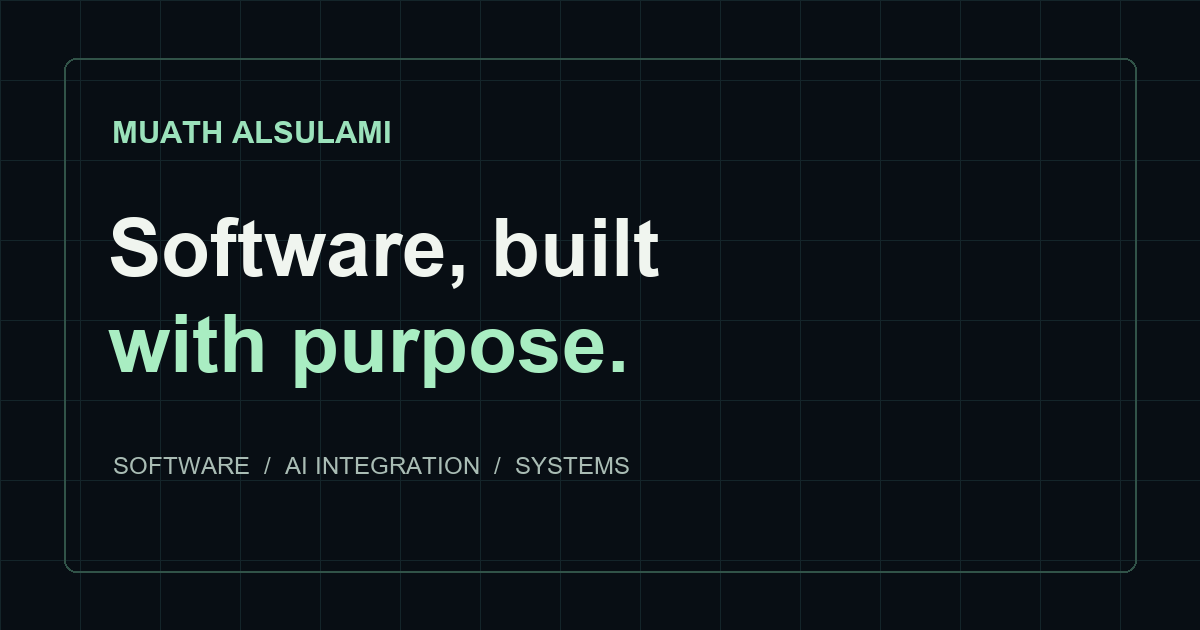
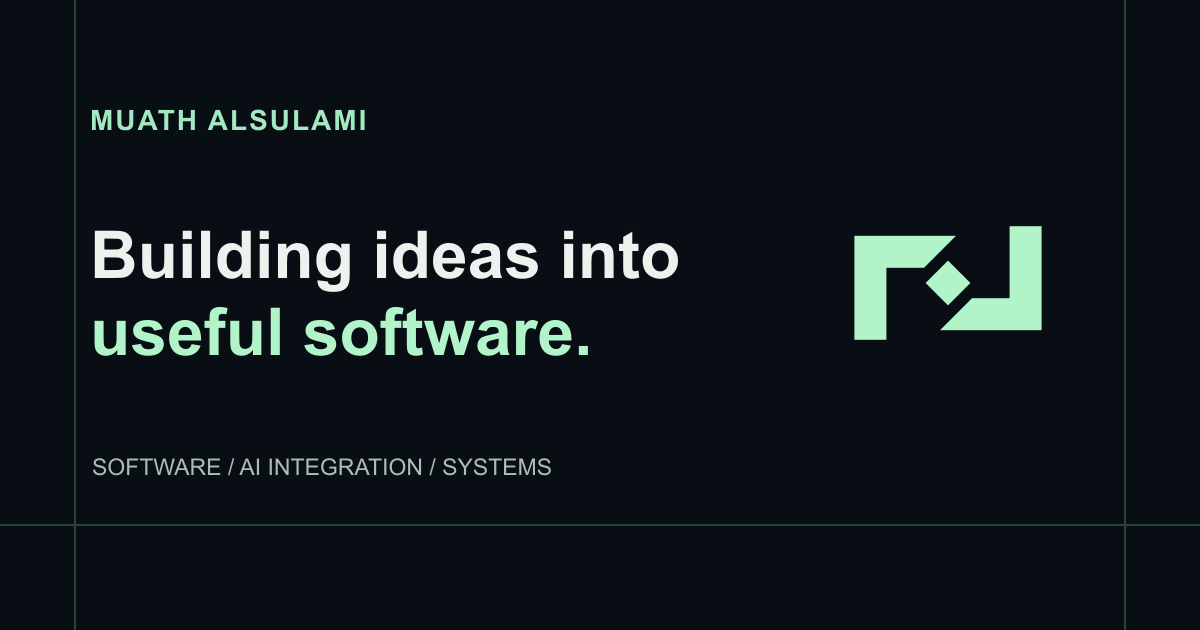
Propose interactive join identity

diff --git a/style.css b/style.css
@@ -82,26 +82,6 @@ button:focus-visible, a:focus-visible { outline: 2px solid var(--green); outline
 .hero-meta strong { font-size: 13px; letter-spacing: .01em; font-weight: 600; }
 .meta-divider { width: 1px; height: 31px; background: var(--line-strong); }
 .hero-art { width: 100%; aspect-ratio: 1; max-width: 620px; margin-inline: auto; position: relative; transform-style: preserve-3d; }
-.art-glow { position: absolute; inset: 14%; border-radius: 50%; background: radial-gradient(circle, rgba(118,227,180,.09),transparent 67%); }
-.orbit { position: absolute; border: 1px solid rgba(140,207,177,.15); border-radius: 50%; inset: 5%; }
-.orbit-middle { inset: 18%; border-style: dashed; border-color: rgba(140,207,177,.24); animation: orbit-spin 80s linear infinite; }
-.orbit-inner { inset: 30%; border-color: rgba(160,237,188,.28); box-shadow: inset 0 0 45px rgba(140,207,177,.04); }
-.orbit-outer::before, .orbit-outer::after { content: ''; position: absolute; background: var(--green); border-radius: 50%; width: 5px; height: 5px; box-shadow: 0 0 15px var(--green); }
-.orbit-outer::before { top: 13%; left: 16%; } .orbit-outer::after { bottom: 19%; right: 13%; }
-.orbit-dashes { position: absolute; inset: -3%; border-radius: 50%; background: repeating-conic-gradient(from -15deg,rgba(153,226,186,.34) 0deg 1deg,transparent 1deg 20deg); mask-image: radial-gradient(transparent 69%,#000 69.1%,#000 69.5%,transparent 69.6%); opacity: .5; }
-.orbital-track { position: absolute; inset: 18%; border-radius: 50%; animation: orbit-spin 14s linear infinite; }
-.orbit-particle { position: absolute; width: 10px; height: 10px; border-radius: 50%; left: calc(50% - 5px); top: -5px; background: var(--green); box-shadow: 0 0 26px var(--green),0 0 55px rgba(135,225,176,.5); }
-.art-center { display: grid; place-items: center; position: absolute; inset: 32%; background: radial-gradient(circle at 40% 30%,#17382f,#0d1c1c 80%); border: 1px solid rgba(132,220,179,.37); border-radius: 50%; box-shadow: 0 20px 130px rgba(60,215,157,.11),inset 0 0 50px rgba(80,201,151,.07); }
-.art-center-ring { width: 87%; height: 87%; border: 1px solid rgba(135,225,176,.13); border-radius: 50%; display: flex; flex-direction: column; align-items: center; justify-content: center; gap: 7px; }
-.art-monogram { font: 800 clamp(72px,8vw,117px)/1 var(--font-display); letter-spacing: -.12em; margin-inline-start: -.1em; text-shadow: 0 0 55px rgba(146,231,184,.28); }
-.art-monogram span { color: var(--green); }
-.art-center small { font: 500 8px/1.3 var(--font-mono); color: #8db3a4; letter-spacing: .13em; }
-.signal { position: absolute; z-index: 3; display: flex; align-items: center; gap: 12px; padding: 12px 14px; font: 600 9px/1 var(--font-mono); letter-spacing: .1em; background: rgba(15,30,35,.92); border: 1px solid rgba(135,225,176,.26); box-shadow: 0 20px 60px rgba(0,0,0,.24); white-space: nowrap; animation: hover-float 7s ease-in-out infinite; }
-.signal-icon { width: 28px; height: 28px; display: grid; place-items: center; background: rgba(135,225,176,.1); font: 600 13px var(--font-mono); color: var(--green); }
-.signal-one { top: 16%; left: -1%; }.signal-two { top: 36%; right: -3%; animation-delay: -2s; }.signal-three { bottom: 13%; left: 8%; animation-delay: -4s; }
-.coordinates { position: absolute; font: 500 9px/1.9 var(--font-mono); color: #718d86; letter-spacing: .12em; }
-.coordinates-one { right: 13%; top: 8%; }.coordinates-two { right: 7%; bottom: 10%; text-align: end; }
-.art-cross { position: absolute; color: var(--green); font: 20px var(--font-mono); opacity: .4; }.art-cross-one { left: 12%; top: 55%; }.art-cross-two { right: 21%; bottom: 28%; }
 .hero-bottom { display: flex; justify-content: space-between; color: #7f958f; font: 500 10px var(--font-mono); letter-spacing: .14em; }
 .hero-bottom > span:first-child { display: flex; align-items: center; gap: 12px; }.small-line { display: inline-block; width: 35px; height: 1px; background: var(--green); }
 .section { padding-block: 125px; }
@@ -192,10 +172,7 @@ button:focus-visible, a:focus-visible { outline: 2px solid var(--green); outline
 .site-footer { background: var(--bg); }.footer-inner { min-height: 91px; display: flex; align-items: center; justify-content: space-between; gap: 20px; font: 500 10px var(--font-mono); color: #7c958b; letter-spacing: .05em; }.footer-inner a { color: #a9d8bd; transition: .2s; }.footer-inner a:hover { color: var(--green); }
 .project-dialog { width: min(660px,calc(100% - 30px)); max-height: calc(100dvh - 50px); overflow: auto; padding: 0; border: 1px solid rgba(135,225,176,.37); background: #121f25; color: var(--text); box-shadow: 0 35px 100px rgba(0,0,0,.55); }.project-dialog::backdrop { background: rgba(0,6,9,.83); -webkit-backdrop-filter: blur(9px); backdrop-filter: blur(9px); }.dialog-inner { padding: clamp(26px,5vw,50px); }.dialog-top { display: flex; align-items: center; justify-content: space-between; }.dialog-kicker { color: var(--green); font: 500 11px var(--font-mono); letter-spacing: .1em; }.dialog-close { border: 1px solid var(--line-strong); width: 40px; height: 40px; font-size: 28px; color: var(--text); background: transparent; }.dialog-inner h2 { font: 800 clamp(29px,4vw,41px)/1.2 var(--font-display); letter-spacing: -.05em; margin: 25px 0 18px; }.dialog-inner h3 { color: var(--green); font-size: 14px; margin: 27px 0 8px; }.dialog-inner p { color: #b5c8bc; line-height: 1.9; font-size: 14px; }.dialog-done { margin-top: 23px; border: 0; background: var(--green); color: #0d2016; padding: 12px 24px; font-weight: 700; }
 .reveal { opacity: 1; transform: none; }[data-reveal-delay="1"] { transition-delay: .09s; }[data-reveal-delay="2"] { transition-delay: .18s; }[data-reveal-delay="3"] { transition-delay: .27s; }[data-reveal-delay="4"] { transition-delay: .36s; }
-@keyframes orbit-spin { to { transform: rotate(360deg); } }
 @keyframes breathe { 50% { box-shadow: 0 0 0 8px rgba(135,225,176,.05),0 0 26px var(--green); } }
-@keyframes hover-float { 50% { transform: translateY(-10px); } }
-
 html[dir="rtl"] body { font-family: 'Tajawal', var(--font-body); }
 html[dir="rtl"] .hero-title,html[dir="rtl"] .big-statement,html[dir="rtl"] .section-display,html[dir="rtl"] .contact h2 { font-family: 'Tajawal', var(--font-display); letter-spacing: -.045em; }
 html[dir="rtl"] .hero-title { line-height: 1.22; }
@@ -210,7 +187,7 @@ html[dir="rtl"] .outline-word { -webkit-text-stroke: 1px rgba(237,242,238,.8); }
 @media (min-width: 1700px) { .hero { min-height: 850px; } }
 @media (max-width: 1120px) {
   .container { width: calc(100% - 70px); }
-  .hero-content { grid-template-columns: 1.13fr .87fr; }.hero-title { font-size: clamp(48px,5.7vw,75px); }.signal { font-size: 7px; padding: 9px; }.signal-icon { width: 20px; height: 20px; font-size: 10px; }
+  .hero-content { grid-template-columns: 1.13fr .87fr; }.hero-title { font-size: clamp(48px,5.7vw,75px); }
   .brand-caption { display: none; }.site-nav { gap: 21px; }.nav-shell { min-height: 82px; }
   .facts-grid { grid-template-columns: repeat(2,1fr); }.fact:nth-child(2) { border-inline-end: 0; }.fact:nth-child(-n+2) { border-bottom: 1px solid var(--line); }.fact:nth-child(3) { padding-inline-start: 0; }
   .project-info { padding: 29px 26px; }.project-card--numoo .project-info { padding: 30px; }
@@ -227,7 +204,7 @@ html[dir="rtl"] .outline-word { -webkit-text-stroke: 1px rgba(237,242,238,.8); }
 }
 @media (max-width: 530px) {
   .container { width: calc(100% - 34px); }.brand-symbol { font-size: 28px; }.lang-switch { font-size: 12px; }
-  .hero { padding-top: 113px; }.hero-eyebrow { padding: 8px 10px; font-size: 9px; margin-bottom: 26px; }.hero-title { font-size: clamp(36px,9.3vw,53px); letter-spacing: -.02em; }.hero-lead { font-size: 14px; line-height: 1.75; }.hero-buttons { gap: 9px; }.button { min-height: 49px; }.button-primary { padding: 0 11px 0 15px; gap: 15px; }.button-quiet { padding: 0 8px; gap: 8px; }.hero-meta { gap: 17px; }.hero-meta strong { font-size: 11px; }.meta-label { font-size: 9px; }.hero-art { width: 100%; margin-inline: auto; }.signal-one { left: 1%; }.signal-two { right: 2%; }.signal-three { left: 10%; }.signal { font-size: 7px; gap: 5px; }.coordinates { font-size: 7px; }.art-center small { font-size: 6px; }.hero-bottom { font-size: 8px; }.hero-scroll-num { display: none; }
+  .hero { padding-top: 113px; }.hero-eyebrow { padding: 8px 10px; font-size: 9px; margin-bottom: 26px; }.hero-title { font-size: clamp(36px,9.3vw,53px); letter-spacing: -.02em; }.hero-lead { font-size: 14px; line-height: 1.75; }.hero-buttons { gap: 9px; }.button { min-height: 49px; }.button-primary { padding: 0 11px 0 15px; gap: 15px; }.button-quiet { padding: 0 8px; gap: 8px; }.hero-meta { gap: 17px; }.hero-meta strong { font-size: 11px; }.meta-label { font-size: 9px; }.hero-art { width: 100%; margin-inline: auto; }.hero-bottom { font-size: 8px; }.hero-scroll-num { display: none; }
   .section-top { margin-bottom: 43px; }.section-index { font-size: 9px; }.section { padding-block: 74px; }.big-statement,.section-display { font-size: clamp(34px,9vw,48px); }.about-details p,.about-details .intro-paragraph { font-size: 14px; }.facts-grid { grid-template-columns: repeat(2,minmax(0,1fr)); }.fact { padding: 21px 14px; min-height: 132px; }.fact-value { font-size: 36px; }.fact-label { font-size: 8px; }.fact-quote { font-size: 12px; }.quote-mark { font-size: 36px; }
   .project-card--numoo .project-visual { min-height: 275px; }.numoo-compose { scale: .78; }.project-visual { min-height: 290px; }.visual-monitoring { padding: 40px 20px; }.dashboard-art { height: 190px; }.linegraph { height: 107px; }.visual-topline { left: 20px; right: 20px; font-size: 8px; }.project-info,.project-card--numoo .project-info { padding: 26px 21px; }.project-info h3 { font-size: 27px; }.project-info > p { font-size: 13px; }.tags span { font-size: 9px; }.filters .filter { padding: 10px 11px; font-size: 10px; }
   .timeline-item h3 { font-size: 20px; }.skill-group-title h3 { font-size: 16px; }.contact-wrap { padding-block: 55px 29px; }.contact-top { margin-bottom: 75px; }.contact h2 { font-size: clamp(45px,11vw,63px); }.contact-content > p:not(.section-kicker) { font-size: 15px; }.contact-footer { align-items: flex-start; flex-direction: column; gap: 18px; }.footer-inner { padding-block: 25px; display: flex; align-items: flex-start; flex-wrap: wrap; font-size: 9px; }.footer-inner > span:nth-child(2) { display: none; }
@@ -236,8 +213,7 @@ html[dir="rtl"] .outline-word { -webkit-text-stroke: 1px rgba(237,242,238,.8); }
   *, *::before, *::after { animation-duration: .01ms !important; animation-iteration-count: 1 !important; transition-duration: .01ms !important; scroll-behavior: auto !important; }
   .reveal { opacity: 1; transform: none; }
 }
-/* Tiny depth response on desktop pointer movement */
-.art-center { transform: translate(var(--parallax-x, 0px), var(--parallax-y, 0px)); transition: transform .3s ease-out; }
+
 .contact-empty[hidden] { display: none !important; }
 
 /* Progressive enhancement: content remains visible if JavaScript is unavailable. */
@@ -277,3 +253,40 @@ html[dir="rtl"] .contact h2 em { color: #174333; -webkit-text-stroke: 0; }
 .dialog-actions { display: flex; align-items: center; gap: 16px; }
 .dialog-language { min-width: 44px; min-height: 44px; }
 .dialog-close { min-width: 44px; min-height: 44px; }
+
+/* Identity: the join mark. */
+.signature-art { display:grid; place-items:center; isolation:isolate; }
+.signature-art::before { content:''; position:absolute; inset:12%; border:1px solid rgba(177,244,201,.16); transform:rotate(45deg) scale(.7); pointer-events:none; }
+.signature-button { position:relative; display:grid; place-items:center; width:min(83%,460px); aspect-ratio:1; border:0; padding:0; background:transparent; color:#b1f4c9; cursor:pointer; }
+.signature-button:disabled { cursor:default; }
+.signature-button svg { width:100%; overflow:visible; }
+.mark-part { fill:currentColor; transform-box:fill-box; transform-origin:center; transition:transform .5s cubic-bezier(.2,.7,.2,1); }
+.part-a { transform:translate(calc(var(--mx,0px) * -.7),calc(var(--my,0px) * -.7)); }
+.part-b { transform:translate(calc(var(--mx,0px) * .7),calc(var(--my,0px) * .7)); }
+.part-c { transform:translate(calc(var(--mx,0px) * .18),calc(var(--my,0px) * .18)); }
+.mark-lines { stroke:#87e1b0; stroke-width:1; opacity:.26; transition:opacity .4s; }
+.signature-button:hover .mark-lines,.signature-button:focus-visible .mark-lines { opacity:.75; }
+.signature-button.is-revealed .part-a { transform:translate(-20px,-20px); }
+.signature-button.is-revealed .part-b { transform:translate(20px,20px); }
+.signature-button.is-revealed .part-c { transform:rotate(45deg) scale(.72); }
+@media(prefers-reduced-motion:no-preference){@keyframes identity-a {from{translate:-48px -48px;opacity:.05}to{translate:0 0;opacity:1}} @keyframes identity-b {from{translate:48px 48px;opacity:.05}to{translate:0 0;opacity:1}} @keyframes identity-c {from{scale:.35;opacity:0}to{scale:1;opacity:1}} .part-a{animation:identity-a 1.3s .12s both cubic-bezier(.2,.65,.2,1)} .part-b{animation:identity-b 1.3s .12s both cubic-bezier(.2,.65,.2,1)} .part-c{animation:identity-c .8s .7s both cubic-bezier(.2,.65,.2,1)} }
+@media(prefers-reduced-motion:reduce){.mark-part{transform:none!important;transition:none}.mark-lines{transition:none}}
+
+.brand-mark { width: 34px; height: 34px; flex: none; fill: var(--green-strong); }
+@media (max-width:530px) { .brand-mark { width:30px; height:30px; } }
+/* On phones, bring the mark into the first screen without hiding the profile details. */
+@media (max-width: 530px) {
+  .hero-copy { display: contents; }
+  .hero-content { gap: 0; }
+  .hero-art.signature-art { order: 1; width: min(63%, 240px); margin: 24px auto 10px; }
+  .hero-meta { order: 2; margin-top: 16px; }
+  .hero-bottom { margin-top: 28px; }
+}
+/* Stable system typography keeps the first screen still while optional web fonts load. */
+html[dir] .hero .hero-title,
+html[dir] .hero .hero-name,
+html[dir] .hero .hero-lead,
+html[dir] .hero .hero-eyebrow,
+html[dir] .hero .hero-meta,
+html[dir] .hero .meta-label,
+html[dir] .hero .button { font-family: Arial, sans-serif; }

diff --git a/script.js b/script.js
@@ -168,6 +168,7 @@ function setLanguage(lang) {
     button.setAttribute('aria-label', lang === 'en' ? 'عربي — switch language to Arabic' : 'EN — switch language to English');
   });
   renderContact();
+  document.querySelector('.signature-button').setAttribute('aria-label', lang === 'ar' ? 'استكشف حركة الهوية' : 'Explore the animated identity');
   updateLabels();
   if (dialog.open && activeProject) populateProject(activeProject);
   try { localStorage.setItem('muath-language', lang); } catch (_) {}
@@ -205,7 +206,7 @@ const siteNav = document.getElementById('site-nav');
 function updateLabels() {
   const ar = currentLang === 'ar';
   document.querySelector('.skip-link').textContent = ar ? 'انتقل إلى المحتوى' : 'Skip to content';
-  document.querySelector('.brand').setAttribute('aria-label', ar ? 'M. MUATH / ALSULAMI — العودة للرئيسية' : 'M. MUATH / ALSULAMI — back to home');
+  document.querySelector('.brand').setAttribute('aria-label', ar ? 'MUATH / ALSULAMI — العودة للرئيسية' : 'MUATH / ALSULAMI — back to home');
   document.querySelector('.footer-inner a').setAttribute('aria-label', ar ? 'العودة للأعلى' : 'Back to top');
   document.getElementById('contact-actions').setAttribute('aria-label', ar ? 'وسائل التواصل' : 'Contact methods');
   document.querySelector('.site-nav').setAttribute('aria-label', ar ? 'التنقل الرئيسي' : 'Main navigation');
@@ -290,24 +291,39 @@ dialog.addEventListener('click', event => { if (event.target === dialog) closeDi
 
 setLanguage(currentLang);
 
-// A small, optional parallax detail. Disabled on touch screens and for reduced motion.
-const motionQuery = window.matchMedia('(prefers-reduced-motion: reduce)');
-const finePointer = window.matchMedia('(pointer: fine)').matches;
-if (finePointer) {
-  const heroArt = document.querySelector('.hero-art');
-  heroArt.addEventListener('pointermove', event => {
-    const bounds = heroArt.getBoundingClientRect();
-    const x = (event.clientX - bounds.left) / bounds.width - .5;
-    const y = (event.clientY - bounds.top) / bounds.height - .5;
-    heroArt.style.setProperty('--parallax-x', `${(x * 12).toFixed(1)}px`);
-    heroArt.style.setProperty('--parallax-y', `${(y * 12).toFixed(1)}px`);
-  });
-  motionQuery.addEventListener('change', () => {
-    heroArt.style.setProperty('--parallax-x', '0px');
-    heroArt.style.setProperty('--parallax-y', '0px');
-  });
-  heroArt.addEventListener('pointerleave', () => {
-    heroArt.style.setProperty('--parallax-x', '0px');
-    heroArt.style.setProperty('--parallax-y', '0px');
-  });
+// The mark settles at rest; pointer work is requested only on interaction.
+const identity = document.querySelector('.signature-button');
+const identityArea = document.querySelector('.signature-art');
+const identityMotion = window.matchMedia('(prefers-reduced-motion: reduce)');
+let identityFrame = 0, identityTimer = 0, bounds = null, pointerX = 0, pointerY = 0;
+identity.disabled = identityMotion.matches;
+function resetIdentity() {
+  cancelAnimationFrame(identityFrame); identityFrame = 0; bounds = null;
+  identity.style.removeProperty('--mx'); identity.style.removeProperty('--my');
 }
+identityArea.addEventListener('pointerenter', event => {
+  if (!identityMotion.matches && event.pointerType === 'mouse') bounds = identityArea.getBoundingClientRect();
+});
+identityArea.addEventListener('pointermove', event => {
+  if (!bounds || identityMotion.matches || event.pointerType !== 'mouse') return;
+  pointerX = Math.max(-14, Math.min(14, ((event.clientX - bounds.left) / bounds.width - .5) * 28));
+  pointerY = Math.max(-14, Math.min(14, ((event.clientY - bounds.top) / bounds.height - .5) * 28));
+  if (!identityFrame) identityFrame = requestAnimationFrame(() => {
+    identity.style.setProperty('--mx', pointerX.toFixed(1) + 'px');
+    identity.style.setProperty('--my', pointerY.toFixed(1) + 'px'); identityFrame = 0;
+  });
+});
+identityArea.addEventListener('pointerleave', resetIdentity);
+identity.addEventListener('click', () => {
+  if (identityMotion.matches) return;
+  clearTimeout(identityTimer); identity.classList.add('is-revealed');
+  identityTimer = setTimeout(() => identity.classList.remove('is-revealed'), 1250);
+});
+identityMotion.addEventListener('change', () => {
+  resetIdentity(); clearTimeout(identityTimer); identity.classList.remove('is-revealed');
+  identity.disabled = identityMotion.matches;
+});
+window.addEventListener('resize', resetIdentity);
+document.addEventListener('visibilitychange', () => {
+  if (document.hidden) { resetIdentity(); clearTimeout(identityTimer); identity.classList.remove('is-revealed'); }
+});

diff --git a/index.html b/index.html
@@ -29,8 +29,8 @@
 
   <header class="site-header" id="top">
     <div class="container nav-shell">
-      <a href="#home" class="brand" aria-label="M. MUATH / ALSULAMI — back to home">
-        <span class="brand-symbol">M<span class="brand-spark">.</span></span>
+      <a href="#home" class="brand" aria-label="MUATH / ALSULAMI — back to home">
+        <svg class="brand-mark" viewBox="0 0 320 320" aria-hidden="true" focusable="false"><path d="M43 101h127l-40 40H83v90H43zM277 219H150l40-40h47V89h40zM160 132l28 28-28 28-28-28z"/></svg>
         <span class="brand-caption">MUATH <span>/</span> ALSULAMI</span>
       </a>
 
@@ -73,21 +73,7 @@
           </div>
         </div>
 
-        <div class="hero-art reveal" data-reveal-delay="2" aria-hidden="true">
-          <div class="art-glow"></div>
-          <div class="orbit orbit-outer"></div>
-          <div class="orbit orbit-middle"></div>
-          <div class="orbit orbit-inner"></div>
-          <div class="orbit-dashes"></div>
-          <div class="orbital-track"><span class="orbit-particle"></span></div>
-          <div class="art-center"><div class="art-center-ring"><span class="art-monogram">M<span>.</span></span><small>BUILD / LEARN / IMPROVE</small></div></div>
-          <div class="signal signal-one"><span class="signal-icon">&lt;/&gt;</span><span>SOFTWARE</span></div>
-          <div class="signal signal-two"><span class="signal-icon">✳</span><span>INTELLIGENCE</span></div>
-          <div class="signal signal-three"><span class="signal-icon">◈</span><span>SYSTEMS</span></div>
-
-          <div class="coordinates coordinates-two">DESIGNING FOR<br>THE REAL WORLD</div>
-          <span class="art-cross art-cross-one">+</span><span class="art-cross art-cross-two">+</span>
-        </div>
+        <div class="hero-art signature-art"><button class="signature-button" type="button" disabled aria-label="Explore the animated identity"><svg viewBox="0 0 320 320" role="presentation" focusable="false"><g class="mark-part part-a"><path d="M43 101h127l-40 40H83v90H43z"/></g><g class="mark-part part-b"><path d="M277 219H150l40-40h47V89h40z"/></g><g class="mark-part part-c"><path d="m160 132 28 28-28 28-28-28z"/></g><g class="mark-lines" fill="none"><path d="M43 251h102M175 69h102M108 215l104-110"/><path d="M43 245v12M277 63v12"/></g></svg></button></div>
       </div>
       <div class="container hero-bottom reveal">
         <span><span class="small-line"></span><span data-i18n="scrollToExplore">SCROLL TO EXPLORE</span></span>

diff --git a/docs/identity-proposal.md b/docs/identity-proposal.md
@@ -1,0 +1,27 @@
+# Identity proposal: The Join
+
+This branch is a proposal for review. The live site remains on the previous identity until the owner approves the change.
+
+Two opposing, open forms meet around a small central diamond. The structure is intended to suggest connecting separate components into a useful whole. The mark is a single-color vector; its identity does not require a glow, lettering, or motion. The interactive version separates and recombines its components on activation. On pointer devices, the pieces move in opposing directions, then settle when the pointer leaves. Reduced motion presents the completed static mark.
+
+![Current and proposed hero](../assets/identity-comparison.webp)
+
+![Proposed mobile hero](../assets/identity-mobile.webp)
+
+## Creative review
+
+Three directions were considered: a connected junction, a woven geometric form, and a linear signal. The junction and the woven form were built as working prototypes. The junction was selected because its two open forms and central connection remain legible as a simple one-color mark at small sizes; it avoids the denser central hexagon of the woven prototype and the familiar chart metaphor of the linear direction. These are design judgments, not proof of legal uniqueness or measured audience preference.
+
+The current live orbital monogram and the proposed mark were recorded with identical viewport and pointer paths. The proposed mark adds a keyboard/touch-triggered decomposition, while the live monogram has a pointer parallax response. The recording uses a visual cursor marker that follows real pointer events and is not part of the site.
+
+## References
+
+Research informed the emphasis on a single interaction idea and motion that respects user preferences, without copying the referenced designs: [Codrops: architecture and interaction](https://tympanus.net/codrops/2026/07/15/the-architecture-behind-trionn-coordinating-gsap-three-js-lenis-and-web-audio/), [Codrops: identity-led interaction](https://tympanus.net/codrops/2026/07/21/magnetic-commerce-building-the-dash-creative-website/), [MDN: reduced motion](https://developer.mozilla.org/en-US/docs/Web/CSS/Reference/At-rules/%40media/prefers-reduced-motion).
+
+## Verification and limits
+
+- Edge and Firefox: pointer movement and return to rest, keyboard activation, touch activation, reduced motion, and horizontal overflow at eight widths in both languages.
+- Existing project interactions, no-JavaScript navigation and contacts, Node integrity checks, and axe checks of the English and Arabic page and open-dialog states were exercised. Automated accessibility testing is not WCAG certification.
+- Mobile Lighthouse was run against the local proposal. Public deployment measurements will be necessary only after approval and merge.
+- Safari, screen-reader testing, actual browser zoom at 200% and 400%, field INP, and third-party social-preview rendering remain unverified.
+- No claim of global trademark or visual uniqueness is made.

diff --git a/README.md b/README.md
@@ -60,3 +60,7 @@ This repository began as a Pathy Git & GitHub training project. Its history reta
 ## Use
 
 No open-source license has been granted for this repository. Contact the owner before reusing the portfolio's content or design.
+
+## Identity proposal
+
+A proposed interactive identity is documented in [the identity review](docs/identity-proposal.md). It is subject to the owner's approval before publication.
